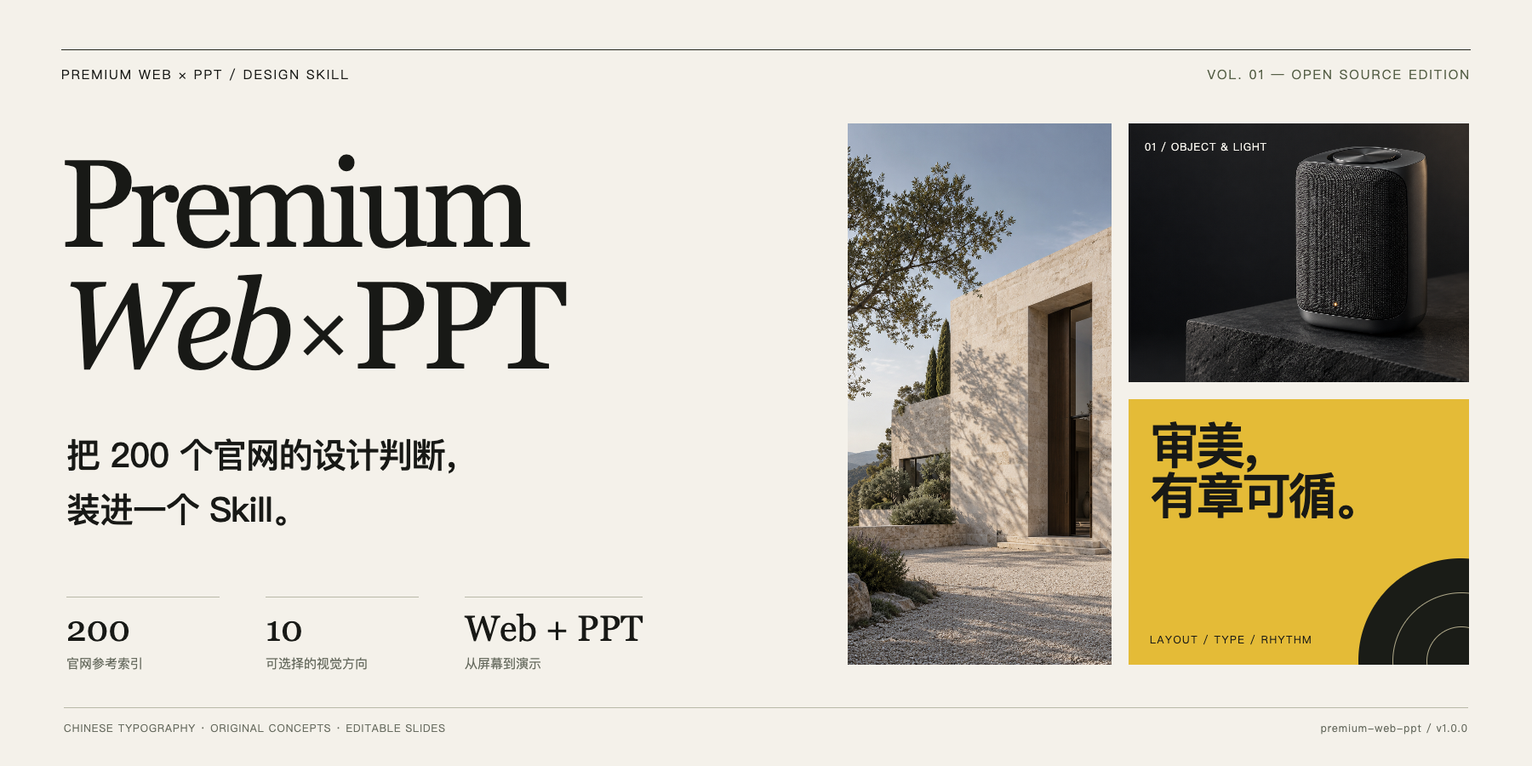
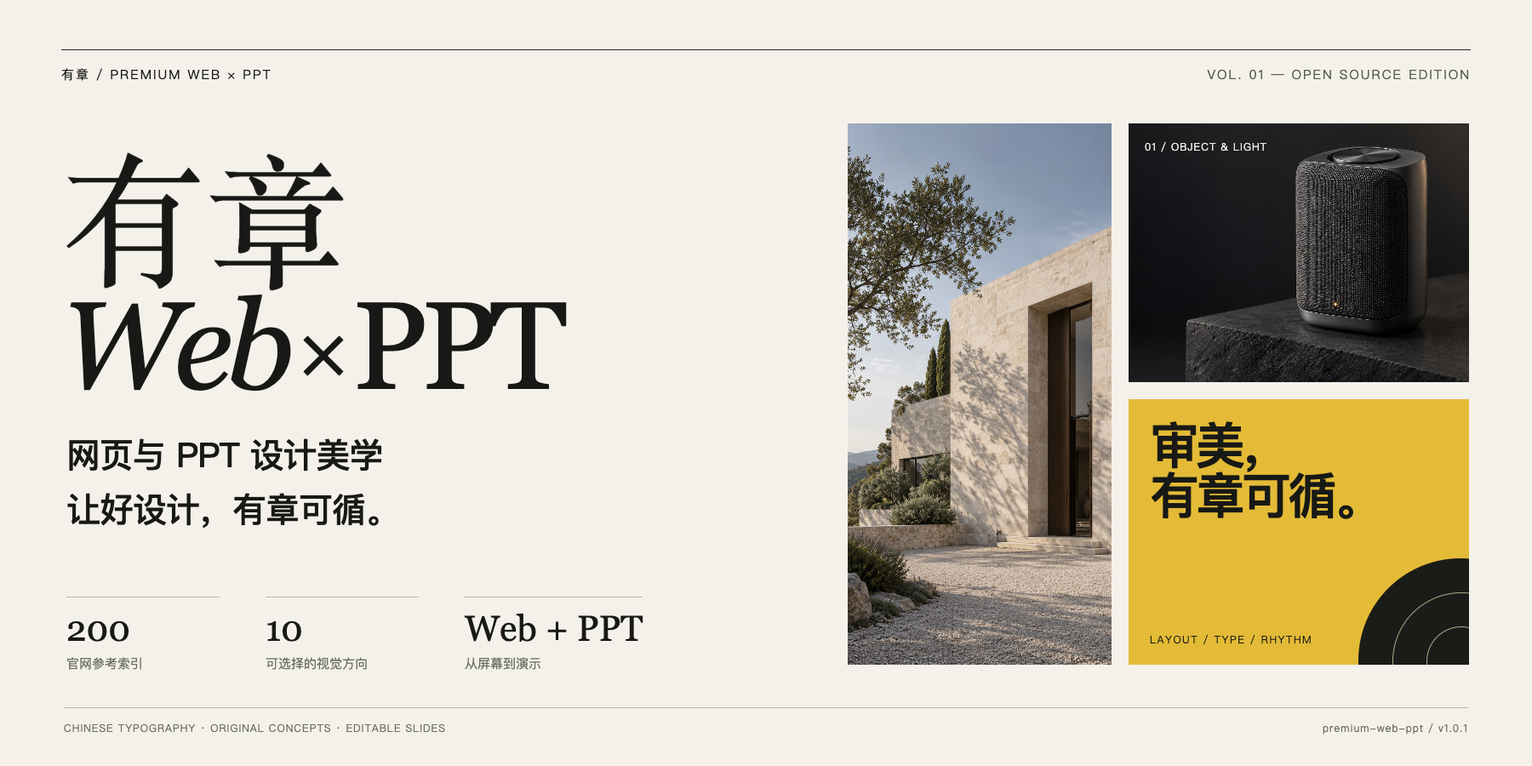
Name the design skill 有章 and unify public branding

diff --git a/index.html b/index.html
@@ -2,22 +2,22 @@
 <html lang="zh-CN">
 <head>
   <meta charset="utf-8"><meta name="viewport" content="width=device-width, initial-scale=1">
-  <meta name="description" content="高级官网与PPT美学：将200个官网参考整理为10种视觉方向。浏览3个真实网页案例，下载3套可编辑PPT，安装Codex设计Skill。">
+  <meta name="description" content="有章：将200个官网参考整理为10种视觉方向。浏览3个真实网页案例，下载3套可编辑PPT，安装Codex设计Skill。">
   <meta name="theme-color" content="#f4f1ea">
-  <title>高级官网与PPT美学 · Premium Web × PPT</title>
+  <title>有章｜网页与PPT设计美学</title>
   <style>
     :root{--paper:#f4f1ea;--ink:#1c2019;--olive:#566047;--muted:#69705f;--line:#d3d5c9;--white:#fffdf8}*{box-sizing:border-box}html{scroll-behavior:smooth;scroll-padding-top:26px}body{margin:0;background:var(--paper);color:var(--ink);font-family:-apple-system,BlinkMacSystemFont,"PingFang SC","Microsoft YaHei",sans-serif}a{color:inherit;text-decoration:none}button{font:inherit}a:focus-visible,button:focus-visible{outline:2px solid var(--olive);outline-offset:6px}.wrap{width:min(1360px,90%);margin:auto}.header{height:96px;display:flex;align-items:center;justify-content:space-between;border-bottom:1px solid var(--line);gap:30px}.brand{font-size:16px;font-weight:600;line-height:1.5}.brand span{display:block;font-size:9px;letter-spacing:.16em;font-weight:400;color:var(--muted);margin-top:3px}.nav{display:flex;gap:30px;font-size:12px;align-items:center}.nav a:hover,.text-link:hover{color:var(--olive);text-decoration:underline;text-underline-offset:5px}.nav .github{border:1px solid var(--line);padding:10px 16px}.hero{display:grid;grid-template-columns:.98fr 1.02fr;gap:7%;padding:75px 0 70px;align-items:center}.eyebrow{font-size:10px;letter-spacing:.16em;color:var(--olive);display:flex;align-items:center;gap:12px}.eyebrow:before{content:"";width:27px;height:1px;background:var(--olive)}h1{font-size:clamp(38px,4.1vw,63px);line-height:1.36;font-weight:550;letter-spacing:-.05em;margin:30px 0 25px}.lead{font-size:16px;line-height:1.9;color:#626957;max-width:430px;margin:0}.actions{display:flex;gap:13px;margin-top:32px;align-items:center;flex-wrap:wrap}.button{display:inline-flex;align-items:center;gap:30px;font-size:12px;padding:15px 20px;border:1px solid var(--ink);transition:background .18s,color .18s}.button.primary{background:var(--ink);color:var(--paper)}.button:hover{background:var(--olive);border-color:var(--olive);color:white}.facts{display:flex;gap:45px;margin:44px 0 0}.facts div{border-top:1px solid var(--line);padding-top:16px;min-width:85px}.facts strong{display:block;font:400 32px/1 Georgia,"Songti SC",serif}.facts span{display:block;font-size:10px;color:var(--muted);margin-top:11px}.hero-art{display:grid;grid-template-columns:.87fr 1.13fr;grid-template-rows:1fr 1fr;gap:13px;height:475px}.hero-art a{overflow:hidden;display:block;position:relative}.hero-art img{width:100%;height:100%;object-fit:cover;display:block;transition:transform .4s}.hero-art a:hover img{transform:scale(1.025)}.hero-art .building{grid-row:1 / 3}.hero-art .building img{object-position:60% 50%}.hero-art .object img{object-position:82% 50%}.hero-art .art img{object-position:center}.hero-art span{position:absolute;bottom:13px;left:13px;font-size:8px;letter-spacing:.1em;color:white;background:#1c2019bb;padding:6px 8px}.section{padding:70px 0;border-top:1px solid var(--line)}.section-head{display:flex;align-items:flex-end;justify-content:space-between;gap:30px;margin-bottom:30px}.section-head .kicker{font-size:10px;letter-spacing:.16em;color:var(--olive);margin-bottom:14px}.section-head h2{font-size:38px;font-weight:450;letter-spacing:-.04em;margin:0;line-height:1.3}.section-head p{font-size:13px;line-height:1.8;color:var(--muted);max-width:330px;margin:0}.grid{display:grid;grid-template-columns:repeat(3,1fr);gap:26px}.case{min-width:0}.case .preview{display:block;overflow:hidden;background:#e2e3d8;border:1px solid #d3d5c9}.case .preview img{display:block;width:100%;aspect-ratio:1.6;object-fit:cover;transition:transform .4s}.case .preview:hover img{transform:scale(1.025)}.case-meta{display:flex;justify-content:space-between;gap:12px;margin-top:19px;font-size:9px;color:var(--olive);letter-spacing:.1em}.case h3{font-size:20px;font-weight:500;margin:11px 0 11px;letter-spacing:-.02em}.case p{font-size:13px;line-height:1.85;color:#68705e;margin:0;max-width:365px}.case .text-link{display:inline-flex;align-items:center;gap:20px;border-bottom:1px solid var(--ink);padding:10px 0 7px;font-size:12px;margin-top:13px}.note{font-size:11px;line-height:1.8;color:var(--muted);margin:30px 0 0}.style-section{display:grid;grid-template-columns:.8fr 1.2fr;gap:8%;align-items:start}.style-section h2{font-family:"Songti SC","STSong",serif;font-size:37px;font-weight:400;line-height:1.5;margin:0}.style-section p{font-size:14px;line-height:1.9;color:var(--muted);max-width:390px;margin:19px 0 0}.styles{display:grid;grid-template-columns:1fr 1fr;gap:0 35px}.styles div{border-top:1px solid var(--line);padding:16px 0;font-size:14px;display:flex;gap:16px;align-items:center}.styles span{font-size:9px;color:var(--olive);min-width:19px}.install{background:#22271e;color:var(--paper);padding:65px 0 70px}.install .wrap{display:grid;grid-template-columns:.8fr 1.2fr;gap:8%;align-items:start}.install .eyebrow{color:#c8d1b8}.install .eyebrow:before{background:#c8d1b8}.install h2{font-size:36px;line-height:1.45;letter-spacing:-.03em;font-weight:450;margin:23px 0 19px}.install p{font-size:13px;color:#bfc7b5;line-height:1.9;margin:0;max-width:360px}.code-label{display:flex;justify-content:space-between;align-items:center;font-size:10px;color:#c8d1b8;letter-spacing:.1em;margin-bottom:14px}.copy{background:transparent;color:var(--paper);border:1px solid #69745e;font-size:10px;padding:7px 13px;cursor:pointer}.copy:hover{background:#3b4432}pre{margin:0 0 22px;padding:21px 23px;background:#171c14;border:1px solid #454e3a;white-space:pre-wrap;word-break:break-word;font:12px/1.9 ui-monospace,SFMono-Regular,Consolas,monospace;color:#e7eadf}.install .prompt{font-size:13px;font-family:inherit;line-height:1.9}.install a{display:inline-block;color:#d2dcbc;font-size:12px;margin-top:11px;border-bottom:1px solid #69745e;padding-bottom:6px}.footer{padding:34px 0;display:flex;justify-content:space-between;gap:25px;font-size:10px;line-height:1.9;color:var(--muted)}.footer p{margin:0}.footer-links{display:flex;gap:23px;align-items:flex-start}.footer a:hover{text-decoration:underline;text-underline-offset:4px}@media(max-width:1000px){.hero{gap:5%;padding-top:55px}.hero-art{height:410px}.facts{gap:23px}.facts div{min-width:65px}.grid{gap:18px}.case h3{font-size:17px}.style-section,.install .wrap{gap:6%}.nav{gap:20px}.section-head h2{font-size:34px}}@media(max-width:650px){.wrap{width:auto;margin:0 23px}.header{height:82px;align-items:center;gap:18px}.brand{font-size:13px}.brand span{font-size:7px;letter-spacing:.1em}.nav{gap:17px;font-size:11px}.nav .github{display:none}.hero{grid-template-columns:1fr;padding:36px 0 43px;gap:34px}.eyebrow{font-size:8px;letter-spacing:.14em}h1{font-size:39px;margin:24px 0 20px;line-height:1.4}.lead{font-size:14px;max-width:340px;line-height:1.85}.actions{margin-top:24px;gap:10px}.button{font-size:11px;padding:14px 17px;gap:22px}.facts{gap:28px;margin-top:31px}.facts div{min-width:72px;padding-top:13px}.facts strong{font-size:27px}.facts span{font-size:9px;margin-top:8px}.hero-art{height:330px;gap:10px;grid-template-columns:1fr 1.12fr}.hero-art span{left:7px;bottom:8px;font-size:7px;padding:5px}.section{padding:42px 0}.section-head{display:block;margin-bottom:25px}.section-head .kicker{font-size:8px;margin-bottom:12px}.section-head h2{font-size:31px}.section-head p{font-size:12px;margin-top:17px;max-width:330px}.grid{grid-template-columns:1fr;gap:34px}.case-meta{margin-top:15px;font-size:8px}.case h3{font-size:21px;margin-top:10px}.case p{font-size:13px}.case .text-link{font-size:12px;margin-top:10px}.note{font-size:10px;margin-top:25px}.style-section{grid-template-columns:1fr;gap:28px}.style-section h2{font-size:30px}.style-section p{font-size:13px;margin-top:14px}.styles{gap:0 22px}.styles div{font-size:12px;padding:14px 0;gap:13px}.styles span{font-size:8px}.install{padding:43px 0 45px}.install .wrap{grid-template-columns:1fr;gap:30px}.install h2{font-size:29px;margin:20px 0 15px}.install p{font-size:12px}.code-label{font-size:8px}pre{font-size:10px;padding:17px;line-height:1.9}.install .prompt{font-size:12px}.footer{display:block;padding:27px 0;font-size:9px}.footer-links{gap:20px;margin-top:20px}}@media(max-width:370px){h1{font-size:34px}.nav{gap:12px}.brand{font-size:12px}.facts{gap:20px}.hero-art{height:295px}}@media(prefers-reduced-motion:reduce){html{scroll-behavior:auto}*{transition:none!important}}
   </style>
 </head>
 <body>
-  <div class="wrap"><header class="header"><a class="brand" href="#top">高级官网与PPT美学<span>PREMIUM WEB × PPT / DESIGN SKILL</span></a><nav class="nav" aria-label="主导航"><a href="#web">案例</a><a href="#install">安装</a><a class="github" href="https://github.com/michalflowers245-alt/premium-web-ppt">GitHub ↗</a></nav></header>
-  <main id="top"><section class="hero" aria-labelledby="main-title"><div><div class="eyebrow">GOOD DESIGN, MADE DELIBERATE</div><h1 id="main-title">把「高级一点」，<br>变成设计判断。</h1><p class="lead">从200个官网参考中，整理出构图、字体、留白与图像的选择方法。让网页与PPT，拥有适合内容的气质。</p><div class="actions"><a class="button primary" href="#web">浏览原创案例 <span aria-hidden="true">↓</span></a><a class="button" href="https://github.com/michalflowers245-alt/premium-web-ppt/releases/download/v1.0.0/premium-web-ppt-v1.0.0.zip">下载 Skill <span aria-hidden="true">↗</span></a></div><div class="facts"><div><strong>200</strong><span>官网参考索引</span></div><div><strong>10</strong><span>可选视觉方向</span></div><div><strong>6</strong><span>原创概念案例</span></div></div></div><div class="hero-art" aria-label="原创概念案例预览"><a class="building" href="examples/web/architecture/" aria-label="打开见山建筑工作室案例"><img src="examples/shared/architecture.png" alt="GPT生成的原创建筑概念"><span>01 / SPACE & LIGHT</span></a><a class="object" href="examples/web/speaker/" aria-label="打开声隅音箱案例"><img src="examples/shared/speaker.png" alt="GPT生成的原创音箱概念"><span>03 / OBJECT STUDY</span></a><a class="art" href="examples/web/art/" aria-label="打开未完成的日常艺术活动案例"><img src="examples/web/art/poster-yellow.svg" alt="原创黄色黑色几何作品"><span>02 / ART & EVERYDAY</span></a></div></section>
+  <div class="wrap"><header class="header"><a class="brand" href="#top">有章<span>网页与 PPT 设计美学 / DESIGN SKILL</span></a><nav class="nav" aria-label="主导航"><a href="#web">案例</a><a href="#install">安装</a><a class="github" href="https://github.com/michalflowers245-alt/premium-web-ppt">GitHub ↗</a></nav></header>
+  <main id="top"><section class="hero" aria-labelledby="main-title"><div><div class="eyebrow">GOOD DESIGN, MADE DELIBERATE</div><h1 id="main-title">让好设计，<br>有章可循。</h1><p class="lead">从200个官网参考中，整理出构图、字体、留白与图像的选择方法。让网页与PPT，拥有适合内容的气质。</p><div class="actions"><a class="button primary" href="#web">浏览原创案例 <span aria-hidden="true">↓</span></a><a class="button" href="https://github.com/michalflowers245-alt/premium-web-ppt/releases/download/v1.0.1/premium-web-ppt-v1.0.1.zip">下载 Skill <span aria-hidden="true">↗</span></a></div><div class="facts"><div><strong>200</strong><span>官网参考索引</span></div><div><strong>10</strong><span>可选视觉方向</span></div><div><strong>6</strong><span>原创概念案例</span></div></div></div><div class="hero-art" aria-label="原创概念案例预览"><a class="building" href="examples/web/architecture/" aria-label="打开见山建筑工作室案例"><img src="examples/shared/architecture.png" alt="GPT生成的原创建筑概念"><span>01 / SPACE & LIGHT</span></a><a class="object" href="examples/web/speaker/" aria-label="打开声隅音箱案例"><img src="examples/shared/speaker.png" alt="GPT生成的原创音箱概念"><span>03 / OBJECT STUDY</span></a><a class="art" href="examples/web/art/" aria-label="打开未完成的日常艺术活动案例"><img src="examples/web/art/poster-yellow.svg" alt="原创黄色黑色几何作品"><span>02 / ART & EVERYDAY</span></a></div></section>
   <section class="section" id="web" aria-labelledby="web-title"><div class="section-head"><div><div class="kicker">01—03 / EXPLORE THE WEBSITES</div><h2 id="web-title">先打开，感受一下。</h2></div><p>三个实际可浏览的网页。<br>点进案例，查看完整页面与手机重排。</p></div><div class="grid"><article class="case"><a class="preview" href="examples/web/architecture/"><img src="docs/assets/web-architecture.png" alt="见山工作室原创概念网页：留白、建筑竖图与项目图注" loading="lazy"></a><div class="case-meta"><span>01 / ARCHITECTURE</span><span>原创概念演示</span></div><h3>见山工作室</h3><p>让建筑先被看见。大白边、竖幅图像与稳定图注，建立安静的观看顺序。</p><a class="text-link" href="examples/web/architecture/">打开建筑官网 <span aria-hidden="true">↗</span></a></article><article class="case"><a class="preview" href="examples/web/art/"><img src="docs/assets/web-art.png" alt="未完成的日常原创概念网页：黄黑双联画与大中文标题" loading="lazy"></a><div class="case-meta"><span>02 / ART & CULTURE</span><span>原创概念演示</span></div><h3>未完成的日常</h3><p>明黄与黑白直接碰面。大标题表达主题，展讯与作品目录交代细节。</p><a class="text-link" href="examples/web/art/">打开艺术活动官网 <span aria-hidden="true">↗</span></a></article><article class="case"><a class="preview" href="examples/web/speaker/"><img src="docs/assets/web-speaker.png" alt="声隅桌面音箱原创概念网页：深色产品舞台与材质特写" loading="lazy"></a><div class="case-meta"><span>03 / PRODUCT</span><span>原创概念演示</span></div><h3>声隅 · 桌面音箱</h3><p>光线刻画材质，文字退到安静的一侧。由一个产品，展开完整的信息层级。</p><a class="text-link" href="examples/web/speaker/">打开产品概念官网 <span aria-hidden="true">↗</span></a></article></div></section>
   <section class="section" id="slides" aria-labelledby="slides-title"><div class="section-head"><div><div class="kicker">04—06 / DOWNLOAD THE SLIDES</div><h2 id="slides-title">从屏幕，到逐页叙述。</h2></div><p>三套PPT，每套3页。<br>标题、正文、流程与表格保留可编辑。</p></div><div class="grid"><article class="case"><a class="preview" href="examples/ppt/craft/craft.pptx"><img src="docs/assets/ppt-craft.png" alt="缓物原创工艺品牌PPT的三页预览" loading="lazy"></a><div class="case-meta"><span>04 / CRAFT & MATERIAL</span><span>3页 · 可编辑</span></div><h3>缓物 · 工艺品牌</h3><p>暖白、橄榄与原创静物，让封面、材料和系列页拥有同一条视觉线索。</p><a class="text-link" href="examples/ppt/craft/craft.pptx" download>下载工艺品牌 PPTX <span aria-hidden="true">↓</span></a></article><article class="case"><a class="preview" href="examples/ppt/business/business.pptx"><img src="docs/assets/ppt-business.png" alt="AI门店试点原创商务方案PPT的三页预览" loading="lazy"></a><div class="case-meta"><span>05 / BUSINESS & STRUCTURE</span><span>3页 · 可编辑</span></div><h3>AI门店试点方案</h3><p>没有实拍，也能排得清楚。判断标题、顾客路径与指标框架，层层展开。</p><a class="text-link" href="examples/ppt/business/business.pptx" download>下载商务方案 PPTX <span aria-hidden="true">↓</span></a></article><article class="case"><a class="preview" href="examples/ppt/culture/culture.pptx"><img src="docs/assets/ppt-culture.png" alt="光的秩序原创文化策展PPT的三页预览" loading="lazy"></a><div class="case-meta"><span>06 / EXHIBITION & EDITORIAL</span><span>3页 · 可编辑</span></div><h3>光的秩序 · 文化策展</h3><p>从一张作品到一份目录，以网格、时间线和不同密度，安排观看与阅读。</p><a class="text-link" href="examples/ppt/culture/culture.pptx" download>下载文化策展 PPTX <span aria-hidden="true">↓</span></a></article></div><p class="note">六组案例均为原创概念演示，不代表真实客户、已营业场所或商业实绩。建筑、音箱与工艺静物由GPT生成；网页与幻灯片实际排版并渲染。</p></section>
   <section class="section style-section" aria-labelledby="styles-title"><div><h2 id="styles-title">高级感，<br>可以有不同答案。</h2><p>按内容选择一个主方向，再决定字体、图像和比例。十种配方，让安静的画册与大胆的海报都能成立。</p></div><div class="styles"><div><span>01</span>编辑画册</div><div><span>02</span>艺术编辑</div><div><span>03</span>古典工艺</div><div><span>04</span>空间材质</div><div><span>05</span>作品档案</div><div><span>06</span>精密展陈</div><div><span>07</span>电影摄影</div><div><span>08</span>清晰发布</div><div><span>09</span>目的地叙事</div><div><span>10</span>文化出版</div></div></section></main></div>
   <section class="install" id="install" aria-labelledby="install-title"><div class="wrap"><div><div class="eyebrow">ADD IT TO YOUR WORKFLOW</div><h2 id="install-title">把设计判断，<br>放进下一次创作。</h2><p>安装到Codex技能目录，再带上你的内容调用。基础使用依靠仓库内的配方、图集与分析，无需原始大文件。</p><a href="https://github.com/michalflowers245-alt/premium-web-ppt">查看完整介绍与200站参考 ↗</a></div><div><div class="code-label"><span>INSTALL / TERMINAL</span><button class="copy" type="button" data-copy="install-code">复制命令</button></div><pre id="install-code">git clone https://github.com/michalflowers245-alt/premium-web-ppt.git \
   "${CODEX_HOME:-$HOME/.codex}/skills/premium-web-ppt"</pre><div class="code-label"><span>CALL / IN CODEX</span></div><pre class="prompt">用 $premium-web-ppt，把这份内容做成高级、清楚的网页或PPT。
 先看相关参考，自主选择方向，完成实际预览检查后交付。</pre><p id="copy-status" role="status" aria-live="polite"></p></div></div></section>
-  <div class="wrap"><footer class="footer"><p>高级官网与PPT美学 · Premium Web × PPT<br>200站参考 / 10种方向 / 网页与演示</p><div class="footer-links"><a href="https://github.com/michalflowers245-alt/premium-web-ppt">GitHub ↗</a><a href="https://github.com/michalflowers245-alt/premium-web-ppt/releases/tag/v1.0.0">v1.0.0 ↗</a><a href="#top">回到顶部 ↑</a></div></footer></div>
+  <div class="wrap"><footer class="footer"><p>有章｜网页与PPT设计美学<br>200站参考 / 10种方向 / 网页与演示</p><div class="footer-links"><a href="https://github.com/michalflowers245-alt/premium-web-ppt">GitHub ↗</a><a href="https://github.com/michalflowers245-alt/premium-web-ppt/releases/tag/v1.0.1">v1.0.1 ↗</a><a href="#top">回到顶部 ↑</a></div></footer></div>
   <script>document.querySelectorAll('[data-copy]').forEach(button=>{button.addEventListener('click',async()=>{const text=document.getElementById(button.dataset.copy).textContent;const status=document.getElementById('copy-status');try{await navigator.clipboard.writeText(text);button.textContent='已复制';status.textContent='命令已复制，可粘贴到终端。';}catch{status.textContent='当前浏览器未开放剪贴板，请直接选中上方命令复制。';}});});</script>
 </body></html>

diff --git a/docs/visual-source/cover.html b/docs/visual-source/cover.html
@@ -1,12 +1,12 @@
 <!doctype html>
-<html lang="zh-CN"><head><meta charset="utf-8"><title>Premium Web × PPT — cover source</title>
+<html lang="zh-CN"><head><meta charset="utf-8"><title>有章 — 网页与PPT设计美学</title>
 <style>
 *{box-sizing:border-box}html,body{margin:0;width:1800px;height:900px;overflow:hidden;background:#f4f1ea;color:#181916}body{font-family:"PingFang SC","Noto Sans CJK SC",Arial,sans-serif}.page{padding:58px 72px;height:100%;position:relative}.top{display:flex;justify-content:space-between;border-top:1px solid #24261e;padding-top:18px;font-size:15px;letter-spacing:2px}.edition{color:#566047}.display{position:absolute;left:70px;top:168px;font-family:Georgia,"Times New Roman",serif;letter-spacing:-8px;line-height:.98;font-size:146px;font-weight:400;margin:0}.display i{font-weight:400}.cross{font-size:105px;vertical-align:10px;margin:0 8px}.sub{position:absolute;left:78px;top:503px;font-size:40px;line-height:1.6;font-weight:500;letter-spacing:-1px}.sub span{display:block}.facts{position:absolute;left:78px;bottom:110px;display:flex;gap:54px}.fact{border-top:1px solid #b9b9a9;padding-top:15px;min-width:180px}.num{font-family:Georgia,serif;font-size:42px;line-height:1}.desc{font-size:15px;margin-top:10px;color:#686c60}.gallery{position:absolute;right:74px;top:145px;width:730px;height:636px;display:grid;grid-template-columns:310px 400px;gap:20px}.arch{height:636px;overflow:hidden;position:relative}.arch img{width:100%;height:100%;object-fit:cover;object-position:48% center}.stack{display:grid;grid-template-rows:304px 312px;gap:20px}.product{position:relative;background:#1a1c1c;overflow:hidden}.product img{width:100%;height:100%;object-fit:cover;object-position:right center}.product .label{position:absolute;left:19px;top:19px;color:#f4f1ea;font-size:12px;letter-spacing:1px}.art{background:#e4bb37;position:relative;overflow:hidden;padding:25px}.art h2{font-size:58px;letter-spacing:-4px;line-height:1.02;margin:0;font-weight:600;position:relative;z-index:2}.art .caption{position:absolute;bottom:21px;left:25px;font-size:12px;letter-spacing:1.5px}.orb{width:240px;height:240px;border-radius:50%;position:absolute;right:-110px;bottom:-115px;background:#1a1c17}.orb:before,.orb:after{content:"";position:absolute;border:1px solid #b0a98a;border-radius:50%;width:160px;height:160px;left:40px;top:40px}.orb:after{width:80px;height:80px;left:80px;top:80px}.bottom{position:absolute;left:75px;right:75px;bottom:36px;display:flex;justify-content:space-between;padding-top:15px;border-top:1px solid #b9b9a9;color:#686c60;font-size:12px;letter-spacing:1px}.vertical{position:absolute;left:994px;top:145px;bottom:118px;border-left:1px solid #d2d1c4}
 </style></head><body><main class="page">
-<header class="top"><span>PREMIUM WEB × PPT / DESIGN SKILL</span><span class="edition">VOL. 01 — OPEN SOURCE EDITION</span></header>
-<h1 class="display">Premium<br><i>Web</i><span class="cross">×</span>PPT</h1>
-<div class="sub"><span>把 200 个官网的设计判断，</span><span>装进一个 Skill。</span></div>
+<header class="top"><span>有章 / PREMIUM WEB × PPT</span><span class="edition">VOL. 01 — OPEN SOURCE EDITION</span></header>
+<h1 class="display"><span style="font-family:'Songti SC','Noto Serif CJK SC',serif;font-size:170px;letter-spacing:0">有章</span><br><i>Web</i><span class="cross">×</span>PPT</h1>
+<div class="sub"><span>网页与 PPT 设计美学</span><span>让好设计，有章可循。</span></div>
 <div class="facts"><div class="fact"><div class="num">200</div><div class="desc">官网参考索引</div></div><div class="fact"><div class="num">10</div><div class="desc">可选择的视觉方向</div></div><div class="fact"><div class="num">Web + PPT</div><div class="desc">从屏幕到演示</div></div></div>
 <div class="gallery"><div class="arch"><img src="../../examples/shared/architecture.png" alt="原创建筑概念图"></div><div class="stack"><div class="product"><img src="../../examples/shared/speaker.png" alt="原创音箱概念图"><span class="label">01 / OBJECT & LIGHT</span></div><div class="art"><h2>审美，<br>有章可循。</h2><div class="orb"></div><div class="caption">LAYOUT / TYPE / RHYTHM</div></div></div></div>
-<footer class="bottom"><span>CHINESE TYPOGRAPHY · ORIGINAL CONCEPTS · EDITABLE SLIDES</span><span>premium-web-ppt / v1.0.0</span></footer>
+<footer class="bottom"><span>CHINESE TYPOGRAPHY · ORIGINAL CONCEPTS · EDITABLE SLIDES</span><span>premium-web-ppt / v1.0.1</span></footer>
 </main></body></html>

diff --git a/README.md b/README.md
@@ -1,14 +1,14 @@
 <p align="center">
-  <img src="docs/assets/cover.png" alt="Premium Web × PPT：把200个官网的设计判断，装进一个Skill" width="100%">
+  <img src="docs/assets/cover.png" alt="有章｜网页与PPT设计美学：让好设计，有章可循。" width="100%">
 </p>
 
-# 高级官网与PPT美学
+# 有章｜网页与PPT设计美学
 
-**把「高级一点」，变成可以执行的设计判断。**
+**让好设计，有章可循。**
 
-[在线展示网站](https://michalflowers245-alt.github.io/premium-web-ppt/) · [安装与使用](#安装与使用) · [六组原创案例](#六组原创案例) · [十种风格方向](#十种风格方向) · [200站参考档案](references/source-index.md) · [下载 v1.0.0](https://github.com/michalflowers245-alt/premium-web-ppt/releases/tag/v1.0.0)
+[在线展示网站](https://michalflowers245-alt.github.io/premium-web-ppt/) · [安装与使用](#安装与使用) · [六组原创案例](#六组原创案例) · [十种风格方向](#十种风格方向) · [200站参考档案](references/source-index.md) · [下载 v1.0.1](https://github.com/michalflowers245-alt/premium-web-ppt/releases/tag/v1.0.1)
 
-`premium-web-ppt` 是一个面向 Codex 的视觉设计 Skill。它将官网参考中的构图、字体、留白、图像和节奏，整理成网页与PPT的制作规则。
+**有章（premium-web-ppt）** 是一个面向 Codex 的视觉设计 Skill。它将官网参考中的构图、字体、留白、图像和节奏，整理成网页与PPT的制作规则。
 
 建筑项目需要空间与尺度，产品发布需要材质细节，商业方案需要清楚的论证。它会按内容选参考，再把同一套视觉规则延伸到完整作品。
 

diff --git a/SKILL.md b/SKILL.md
@@ -1,9 +1,9 @@
 ---
 name: premium-web-ppt
-description: 基于《高级官网图鉴200》为网页和PPT选择并实现高级视觉风格，提炼时装、家居、建筑、艺术、科技和酒店官网的构图、字体、留白与图像语言。适用于高级官网、奢雅极简、编辑设计、品牌感网页或演示文稿，以及用户明确引用这200份参考时。
+description: 有章 · 网页与PPT设计美学。基于《高级官网图鉴200》为网页和PPT选择并实现高级视觉风格，提炼时装、家居、建筑、艺术、科技和酒店官网的构图、字体、留白与图像语言。适用于高级官网、奢雅极简、编辑设计、品牌感网页或演示文稿，以及用户明确引用这200份参考时。
 ---
 
-# 高级官网与 PPT 美学
+# 有章 · 网页与PPT设计美学
 
 把“好看、高级”落实为适合内容的构图、字体、图像、比例和阅读节奏。参考库是多种视觉语言，不是一个通用模板；先选方向，再一致地执行。
 

diff --git a/docs/visual-source/README.md b/docs/visual-source/README.md
@@ -1,4 +1,4 @@
-# 首页视觉源文件
+# 有章｜首页视觉源文件
 
 `cover.html` 是1800×900的原生排版封面，使用 `examples/shared/` 中的原创GPT概念图；文字由HTML/CSS渲染，不包含第三方官网摄影。
 
